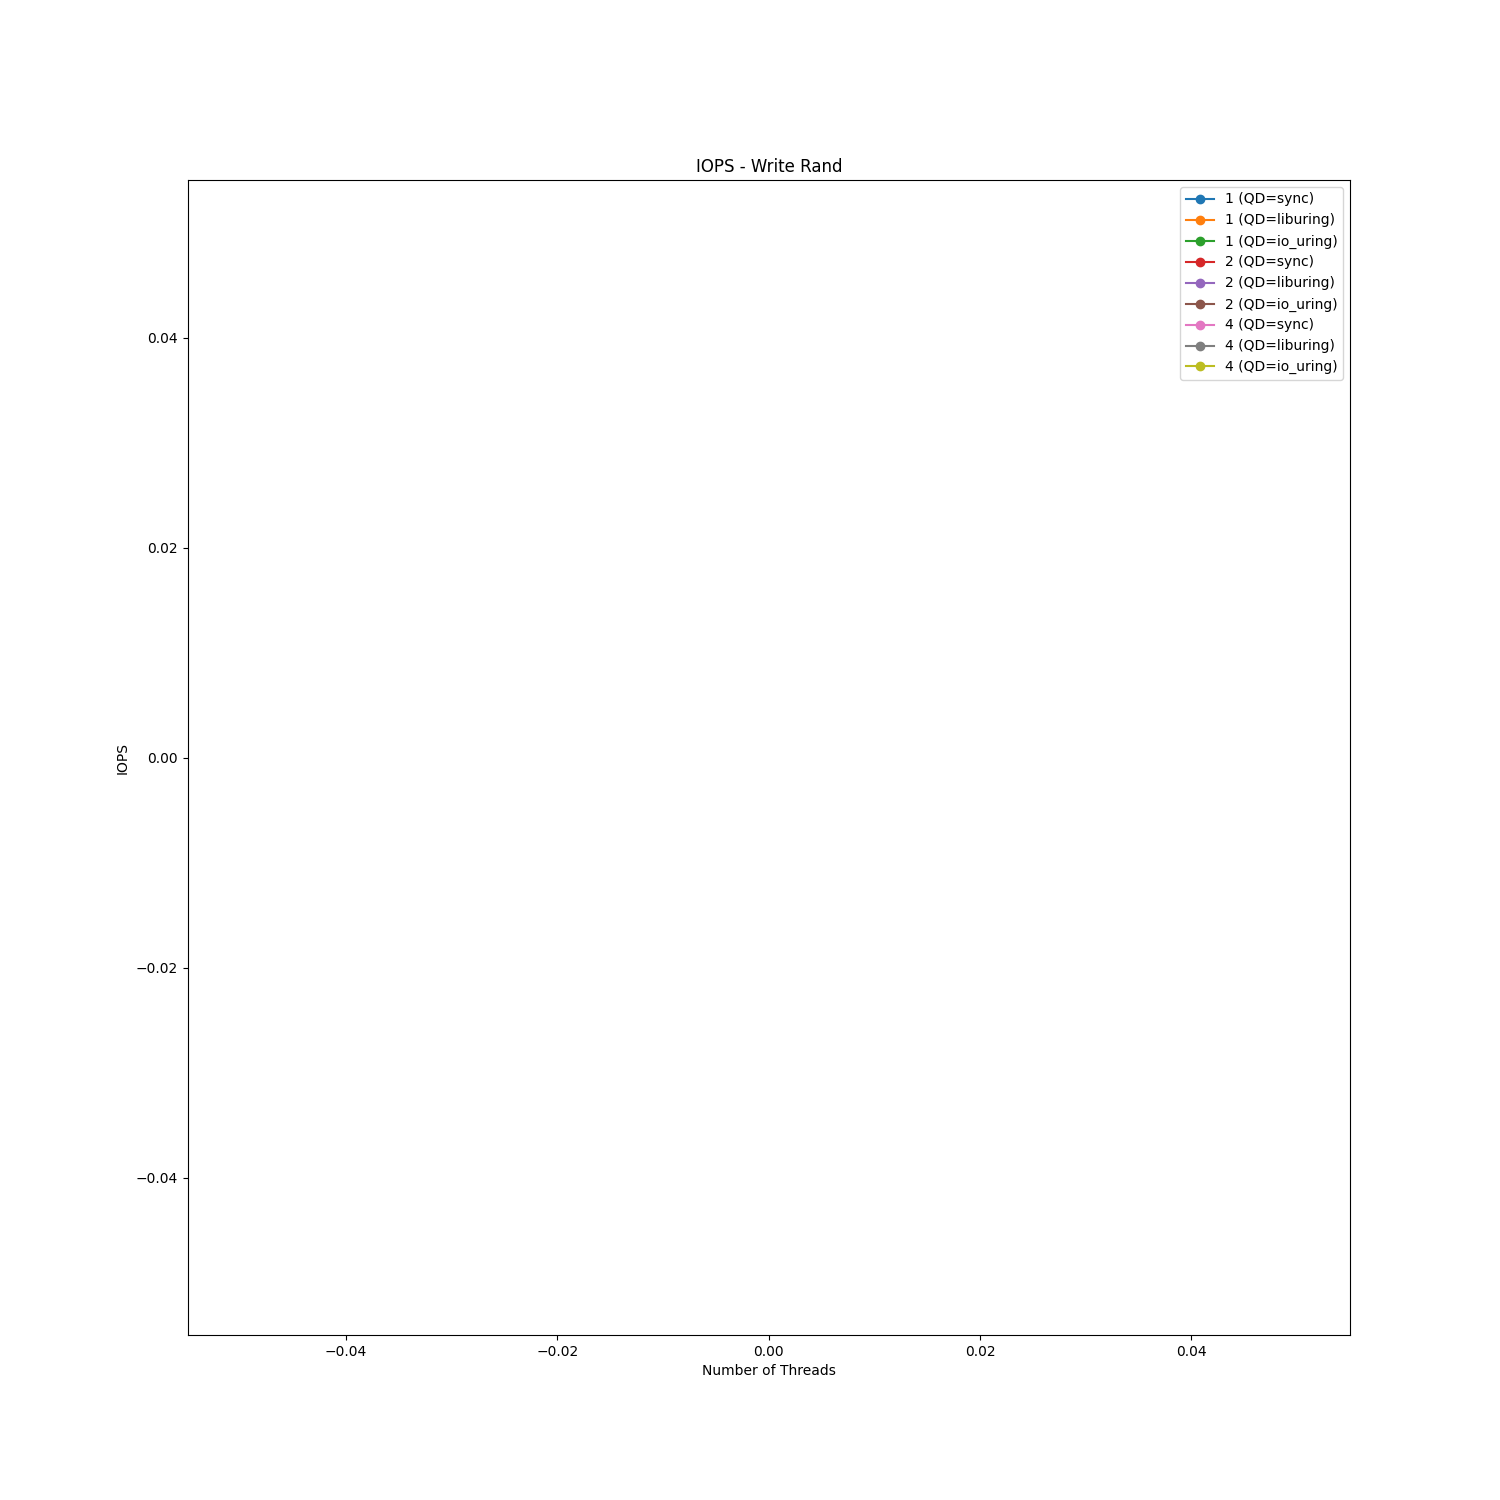
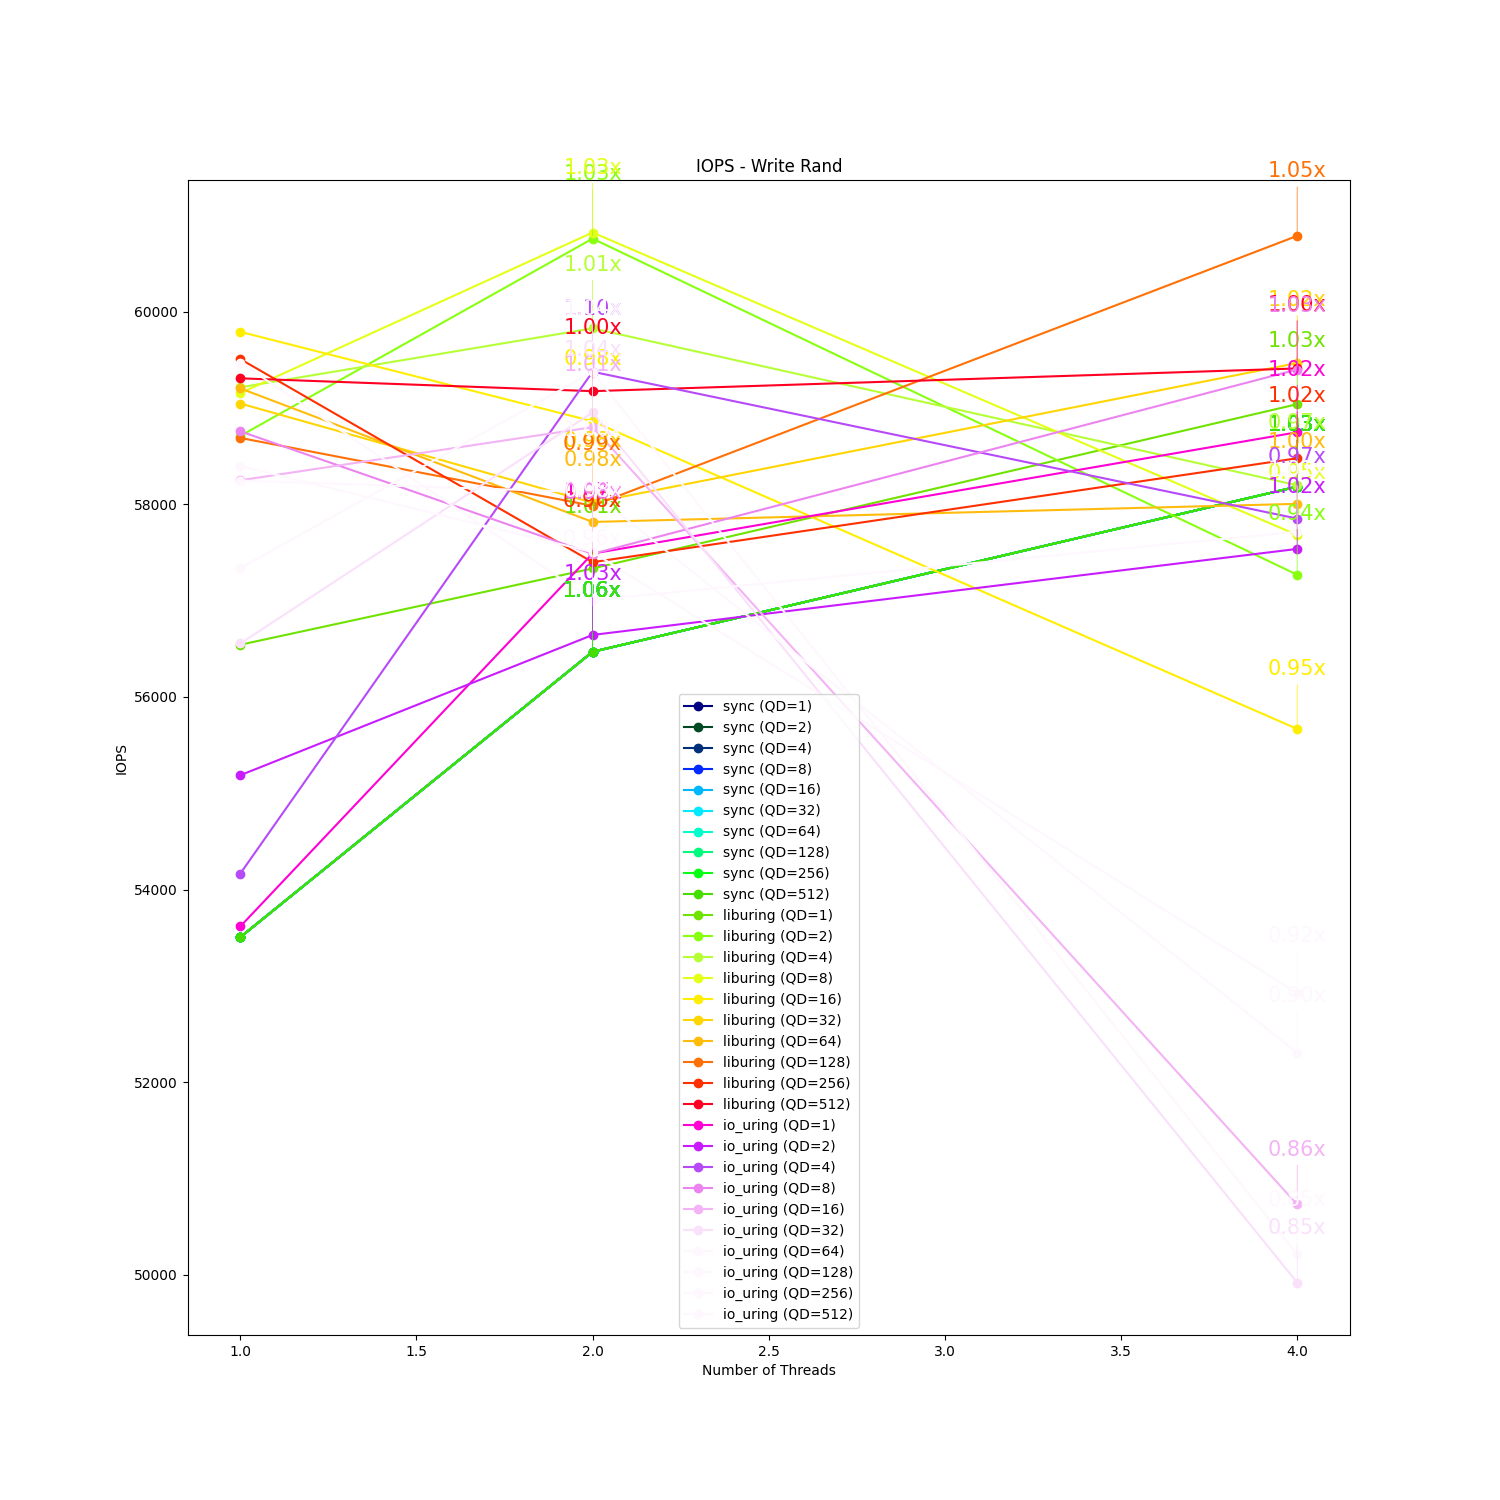
need to change cmap

diff --git a/scripts/benchmark.py b/scripts/benchmark.py
@@ -130,8 +130,8 @@ def plot_results_update(csv_file, thread_counts, rw_types, access_methods, engin
             fig, ax_iops = plt.subplots(figsize=fig_size)
             fig_bandwidth, ax_bandwidth = plt.subplots(figsize=fig_size)
 
-            cmap = get_cmap('tab10')  # Use a colormap (e.g., 'tab10')
-            colors = [cmap(k) for k in range(len(engines) * len(queue_depths))]  # Generate colors
+            cmap = get_cmap('gist_ncar')  # Use a colormap (e.g., 'tab10')
+            colors = [cmap(k*10) for k in range(len(engines) * len(queue_depths))]  # Generate colors
             color_idx = 0
 
             for engine in engines:
@@ -218,6 +218,8 @@ def plot_results_update(csv_file, thread_counts, rw_types, access_methods, engin
 
             plt.close(fig)
             plt.close(fig_bandwidth)
+
+
 
 def plot_results(csv_file, queue_depths, rw_types, access_methods, thread_counts, engines):
     fig_size = (25, 25)
@@ -357,7 +359,8 @@ def main():
         print(f'{csv_file} exists. Skipping benchmark execution and plotting existing data.')
 
     # Plot results
-    plot_results_update(csv_file, queue_depths, rw_types, access_methods, thread_counts, engines)
+    plot_results_update(csv_file, thread_counts, rw_types, access_methods, engines, queue_depths)
+    # plot_results(csv_file, queue_depths, rw_types, access_methods, thread_counts, engines)
 
 
 if __name__ == '__main__':
